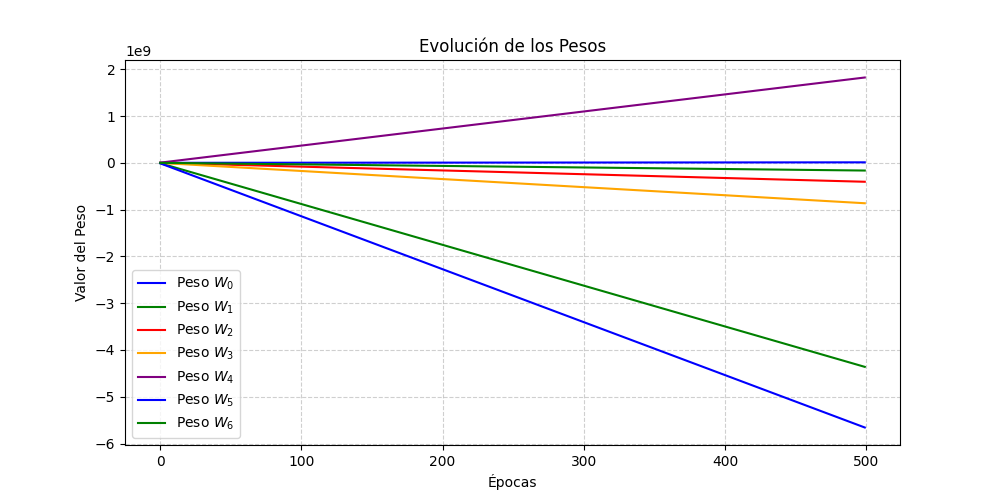
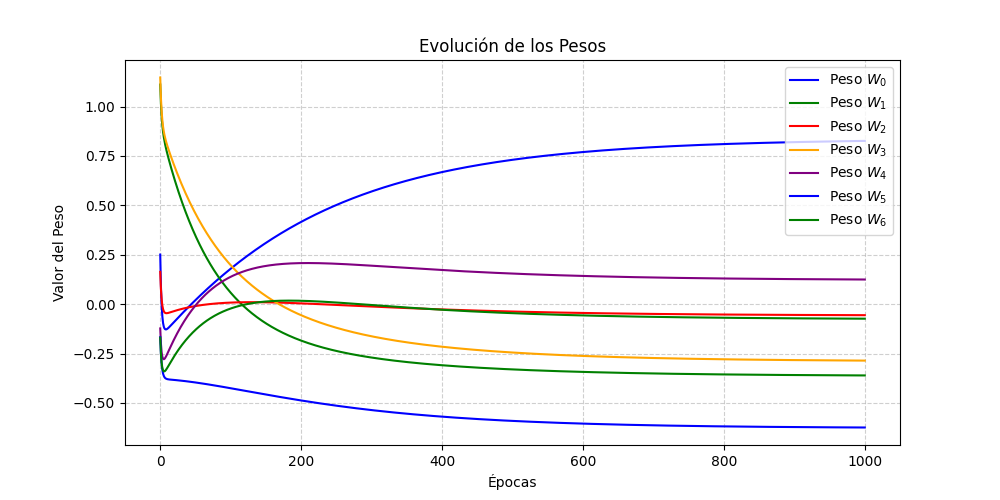
d

diff --git a/app.py b/app.py
@@ -2,28 +2,49 @@ import numpy as np
 import matplotlib.pyplot as plt
 from NeuronalNetwork import NeuronalNetwork
 
-lambdas = [1, 1e-6, 10, 0.1, 0.01]
+#lambdas = [1, 1e-6, 10, 0.1, 0.01]
+lambdas = [0.001, 0.0001, 0.00001]
 
 results = []
 
 for lambda_value in lambdas:
-    neuronalNet = NeuronalNetwork('datasets/A233392.csv')
-    print(f"\n--- Iniciando Entrenamiento Lambda = {lambda_value} ---")
-    results.append(neuronalNet.train(epochs=500, lambda_value=lambda_value))
+    neuronalNet = NeuronalNetwork('datasets/A233392.csv', skiprows=0)
+    print(f"\n--- Entrenando Regresión Lambda = {lambda_value} ---")
+    results.append(neuronalNet.train(epochs=1000, lambda_value=lambda_value))
+    #neuronalNet = NeuronalNetwork('datasets/A233392.csv')
+    #print(f"\n--- Iniciando Entrenamiento Lambda = {lambda_value} ---")
+    #results.append(neuronalNet.train(epochs=500, lambda_value=lambda_value))
 
 
 plt.figure(figsize=(12, 8))
-plt.plot(results[0].errors, label='Lambda = 1', color='blue')
-plt.plot(results[1].errors, label='Lambda = 1e-6', color='green')
-plt.plot(results[2].errors, label='Lambda = 10', color='red')
-plt.plot(results[3].errors, label='Lambda = 0.1', color='orange')
-plt.plot(results[4].errors, label='Lambda = 0.01', color='purple')
+# Solo graficamos los 3 resultados que existen
+plt.plot(results[0].errors, label='Lambda = 0.1', color='blue')
+plt.plot(results[1].errors, label='Lambda = 0.01', color='green')
+plt.plot(results[2].errors, label='Lambda = 0.001', color='red')
+
 plt.xlabel('Épocas')
 plt.ylabel('Error')
-plt.title('Evolución del Error por Lambda')
+plt.title('Evolución del Error (Regresión)')
 plt.legend()
 plt.grid(True, linestyle='--', alpha=0.6)
 plt.savefig("results/evolucion_error_lambdas.png")
 
-results[3].plot_weights_curve("results/evolucion_pesos.png")
-results[3].save_report_to_csv("results/reporte_red_neuronal.csv")
+# Guardamos el reporte del primer experimento (índice 0)
+results[0].plot_weights_curve("results/evolucion_pesos.png")
+results[0].save_report_to_csv("results/reporte_red_neuronal.csv")
+
+
+
+#class NeuronalNetwork:
+    #def __init__(self, path_dataset: str, skiprows = 0):
+        # 1. Cargar datos crudos
+     #   raw_data = np.loadtxt(path_dataset, delimiter=",", skiprows=skiprows)
+
+        # 2. NORMALIZAR (Obligatorio para evitar el overflow)
+        # Esto convierte los valores de miles (0-7500) a un rango de 0 a 1
+      #  self.dataset = (raw_data - raw_data.min(axis=0)) / (raw_data.max(axis=0) - raw_data.min(axis=0))
+
+        # 3. Extraer valores ya normalizados
+       # self.Y_values = self.__slicing_Y_values()
+        #self.X_values = self.__slicing_X_values()
+        #self.W_values = self.__generate_W_values()

diff --git a/NeuronalNetwork.py b/NeuronalNetwork.py
@@ -4,8 +4,15 @@ import numpy.linalg as la
 from entities.data_results import DataResults
 
 class NeuronalNetwork:
-    def __init__(self, path_dataset: str, skiprows = 0):
-        self.dataset = np.loadtxt(path_dataset, delimiter=",", skiprows=skiprows)
+    def __init__(self, path_dataset: str, skiprows=0):
+        # 1. Carga única de datos
+        raw_data = np.loadtxt(path_dataset, delimiter=",", skiprows=skiprows)
+
+        # 2. Normalización Min-Max (Esto escala los 150 registros entre 0 y 1)
+        # Es vital para que la regresión no explote con valores de 7000+
+        self.dataset = (raw_data - raw_data.min(axis=0)) / (raw_data.max(axis=0) - raw_data.min(axis=0))
+
+        # 3. Extraer valores del dataset YA normalizado
         self.Y_values = self.__slicing_Y_values()
         self.X_values = self.__slicing_X_values()
         self.W_values = self.__generate_W_values()
@@ -54,5 +61,5 @@ class NeuronalNetwork:
             
     def __funtion_activation(self, u):
         # np.where funciona así: np.where(condición, valor_si_verdad, valor_si_falso)
-        return np.where(u >= 0, 1, 0)
+        return u
  
